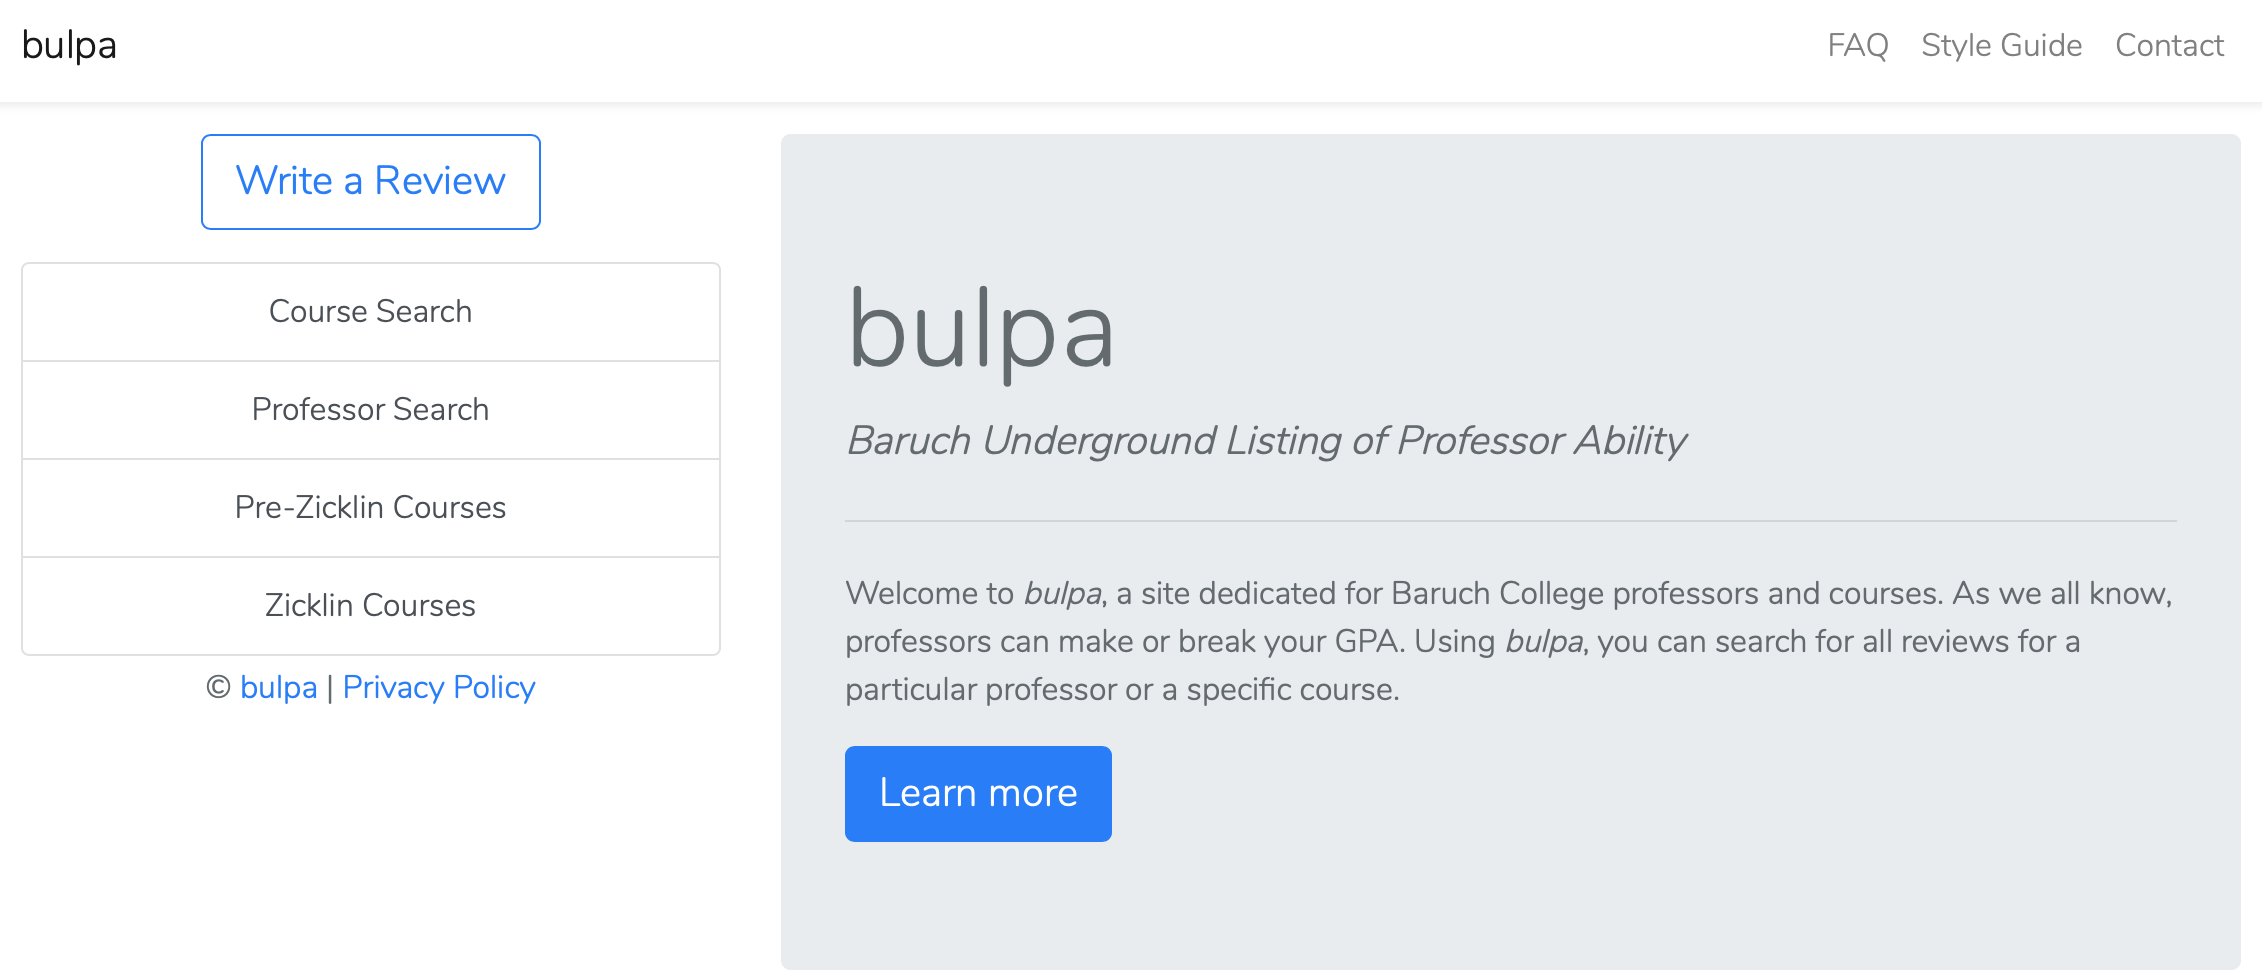
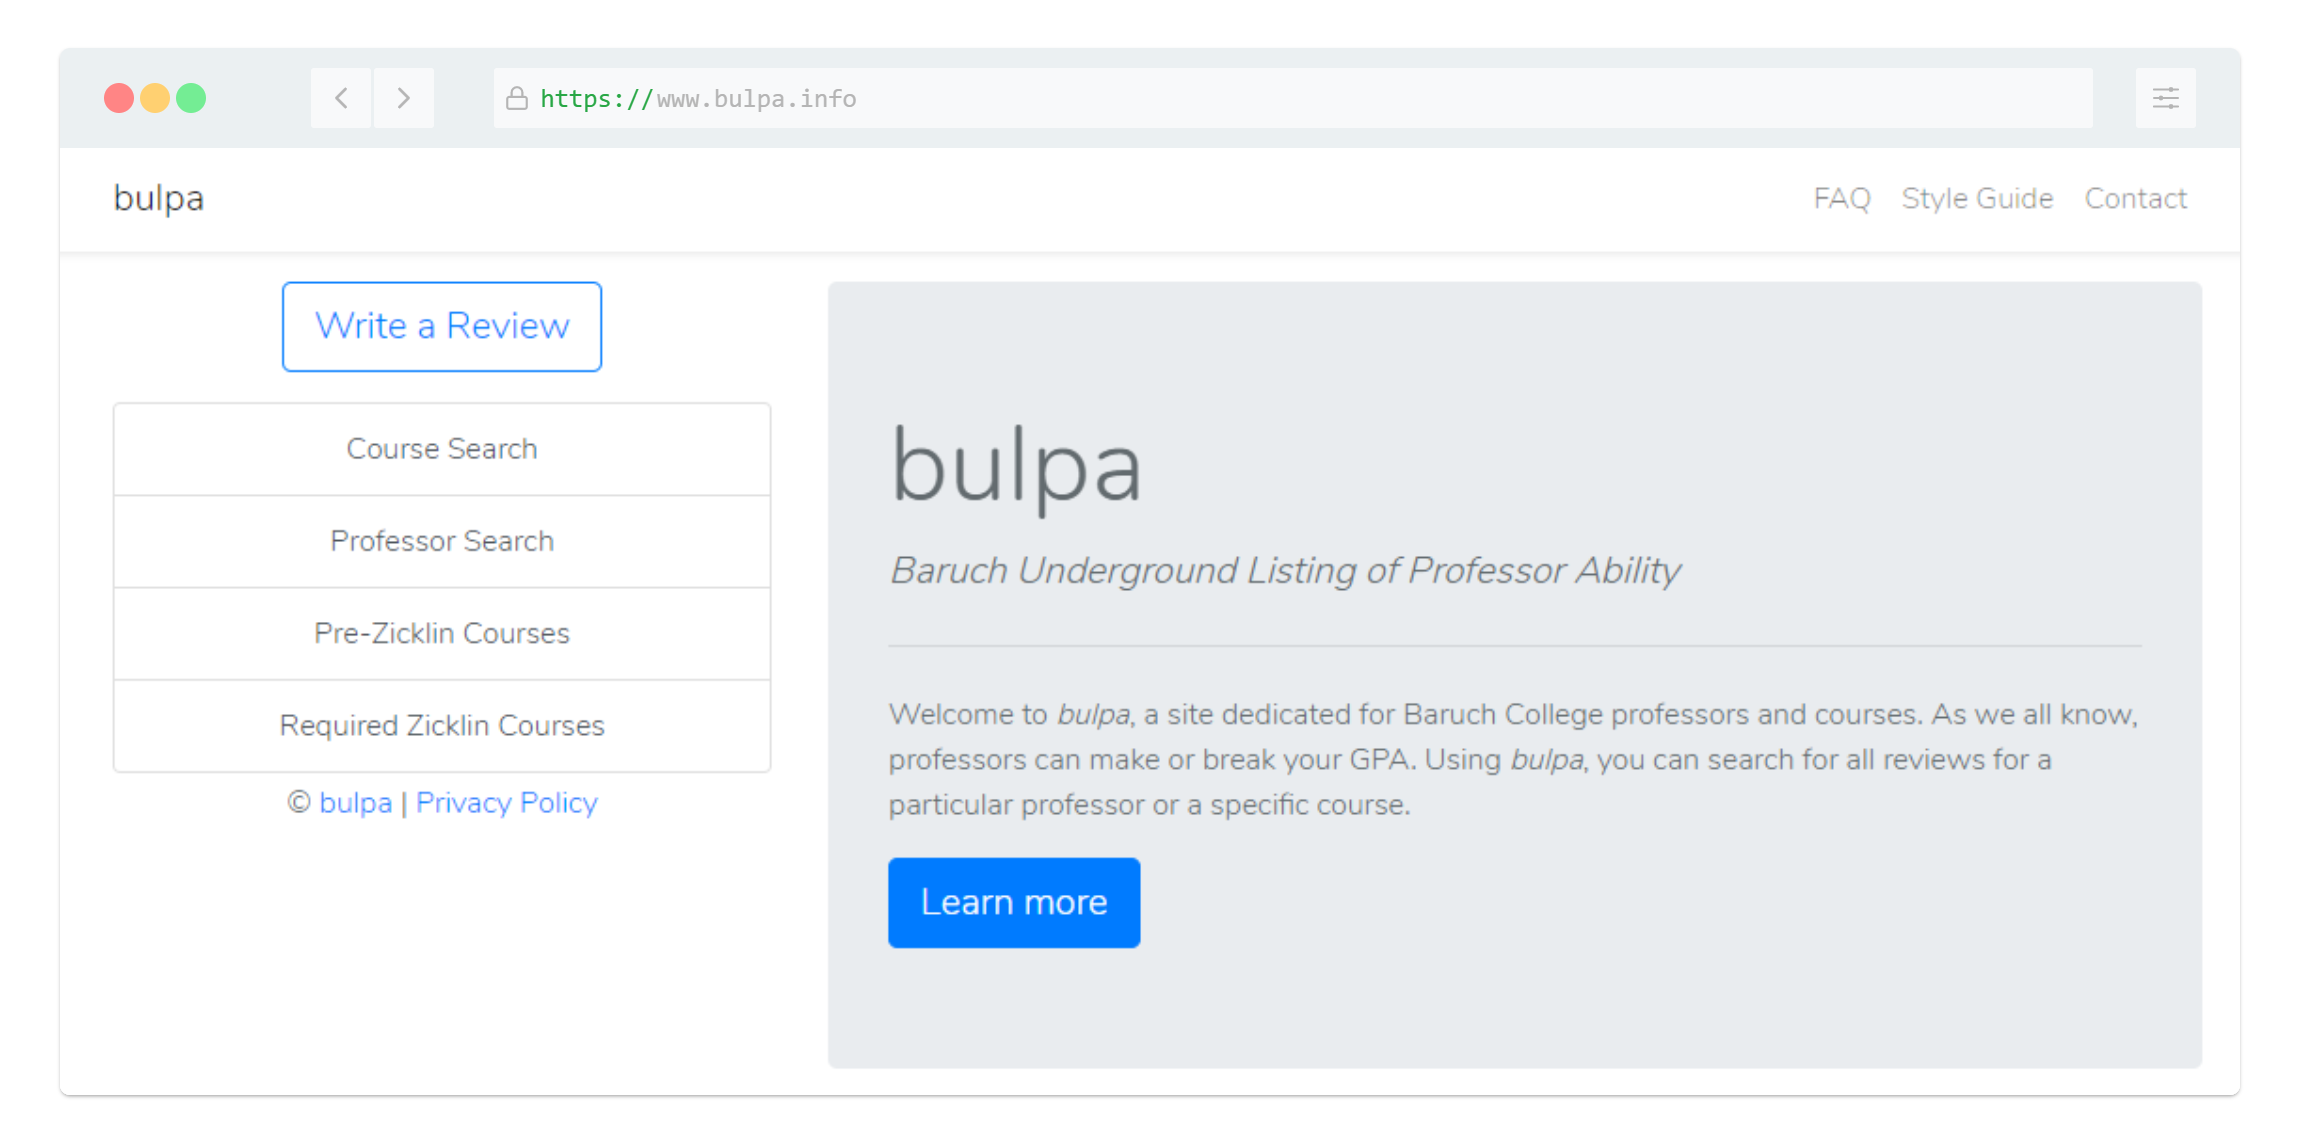
Update links & New Screenshots

diff --git a/index.html b/index.html
@@ -20,7 +20,7 @@
 <body>
     <h1>Ricky Shin</h1>
     <nav style="text-align: center;">
-        <a href="/index.html">Home</a>
+        <a href="/index">Home</a>
         <a href="/shin_resume.pdf">Resume</a>
         <a href="mailto:hi@rickyshin.com">Contact</a>
     </nav>
@@ -40,21 +40,21 @@
         <!-- <li><a href="/index.html">RickyShin.com</a>, fun fact - the color scheme on this website changes depending on your system preferences <a href="/projects/this.html">[read more]</a></li> -->
         <li><a href="https://www.covidinnyc.com/" target="_blank">COVIDinNYC.com</a>, a website that
             automatically fetches and charts data related to the COVID-19 pandemic in NYC <a
-                href="/projects/covid-in-nyc.html">[read more]</a>
+                href="/projects/covid-in-nyc">[read more]</a>
         </li>
         <li><a href="https://github.com/ricky-shin/bulpa" target="_blank">bulpa.info</a>, a professor review website
             specific to Baruch College, City University of New
-            York <a href="/projects/bulpa.html">[read more]</a> </li>
+            York <a href="/projects/bulpa">[read more]</a> </li>
         <li><a href="https://apps.apple.com/us/app/escape-area-51-raid-survival/id1475180053/" target="_blank">Ecape
                 Area 51: Raid Survival</a>, a side-scrolling game currently live on the iOS App Store, with hundreds of
-            downloads worldwide <a href="/projects/escape-area-51.html">[read more]</a></li>
+            downloads worldwide <a href="/projects/escape-area-51">[read more]</a></li>
         <li><a href="https://github.com/ricky-shin/gatekeeper" target="_blank">Gatekeeper</a>, a Discord bot that allows server
             administrators to seamlessly integrate custom domain email verification for their users <!-- <a
                 href="/projects/gatekeeper.html">[read more]</a> --> </li>
     </ul>
     <footer>
         <div style="font-style: italic; font-size: x-small;">
-            Updated: August 4th, 2020
+            Updated: August 24th, 2020
         </div>
     </footer>
 </body>

diff --git a/projects/bulpa.html b/projects/bulpa.html
@@ -19,7 +19,7 @@
 <body>
     <h1>Ricky Shin</h1>
     <nav style="text-align: center;">
-        <a href="/index.html">Home</a>
+        <a href="/index">Home</a>
         <a href="/shin_resume.pdf">Resume</a>
         <a href="mailto:hi@rickyshin.com">Contact</a>
     </nav>
@@ -95,7 +95,7 @@
     </ul>
     <footer>
         <div style="font-style: italic; font-size: x-small;">
-            Updated: May 26th, 2020
+            Updated: August 24th, 2020
         </div>
     </footer>
 </body>
